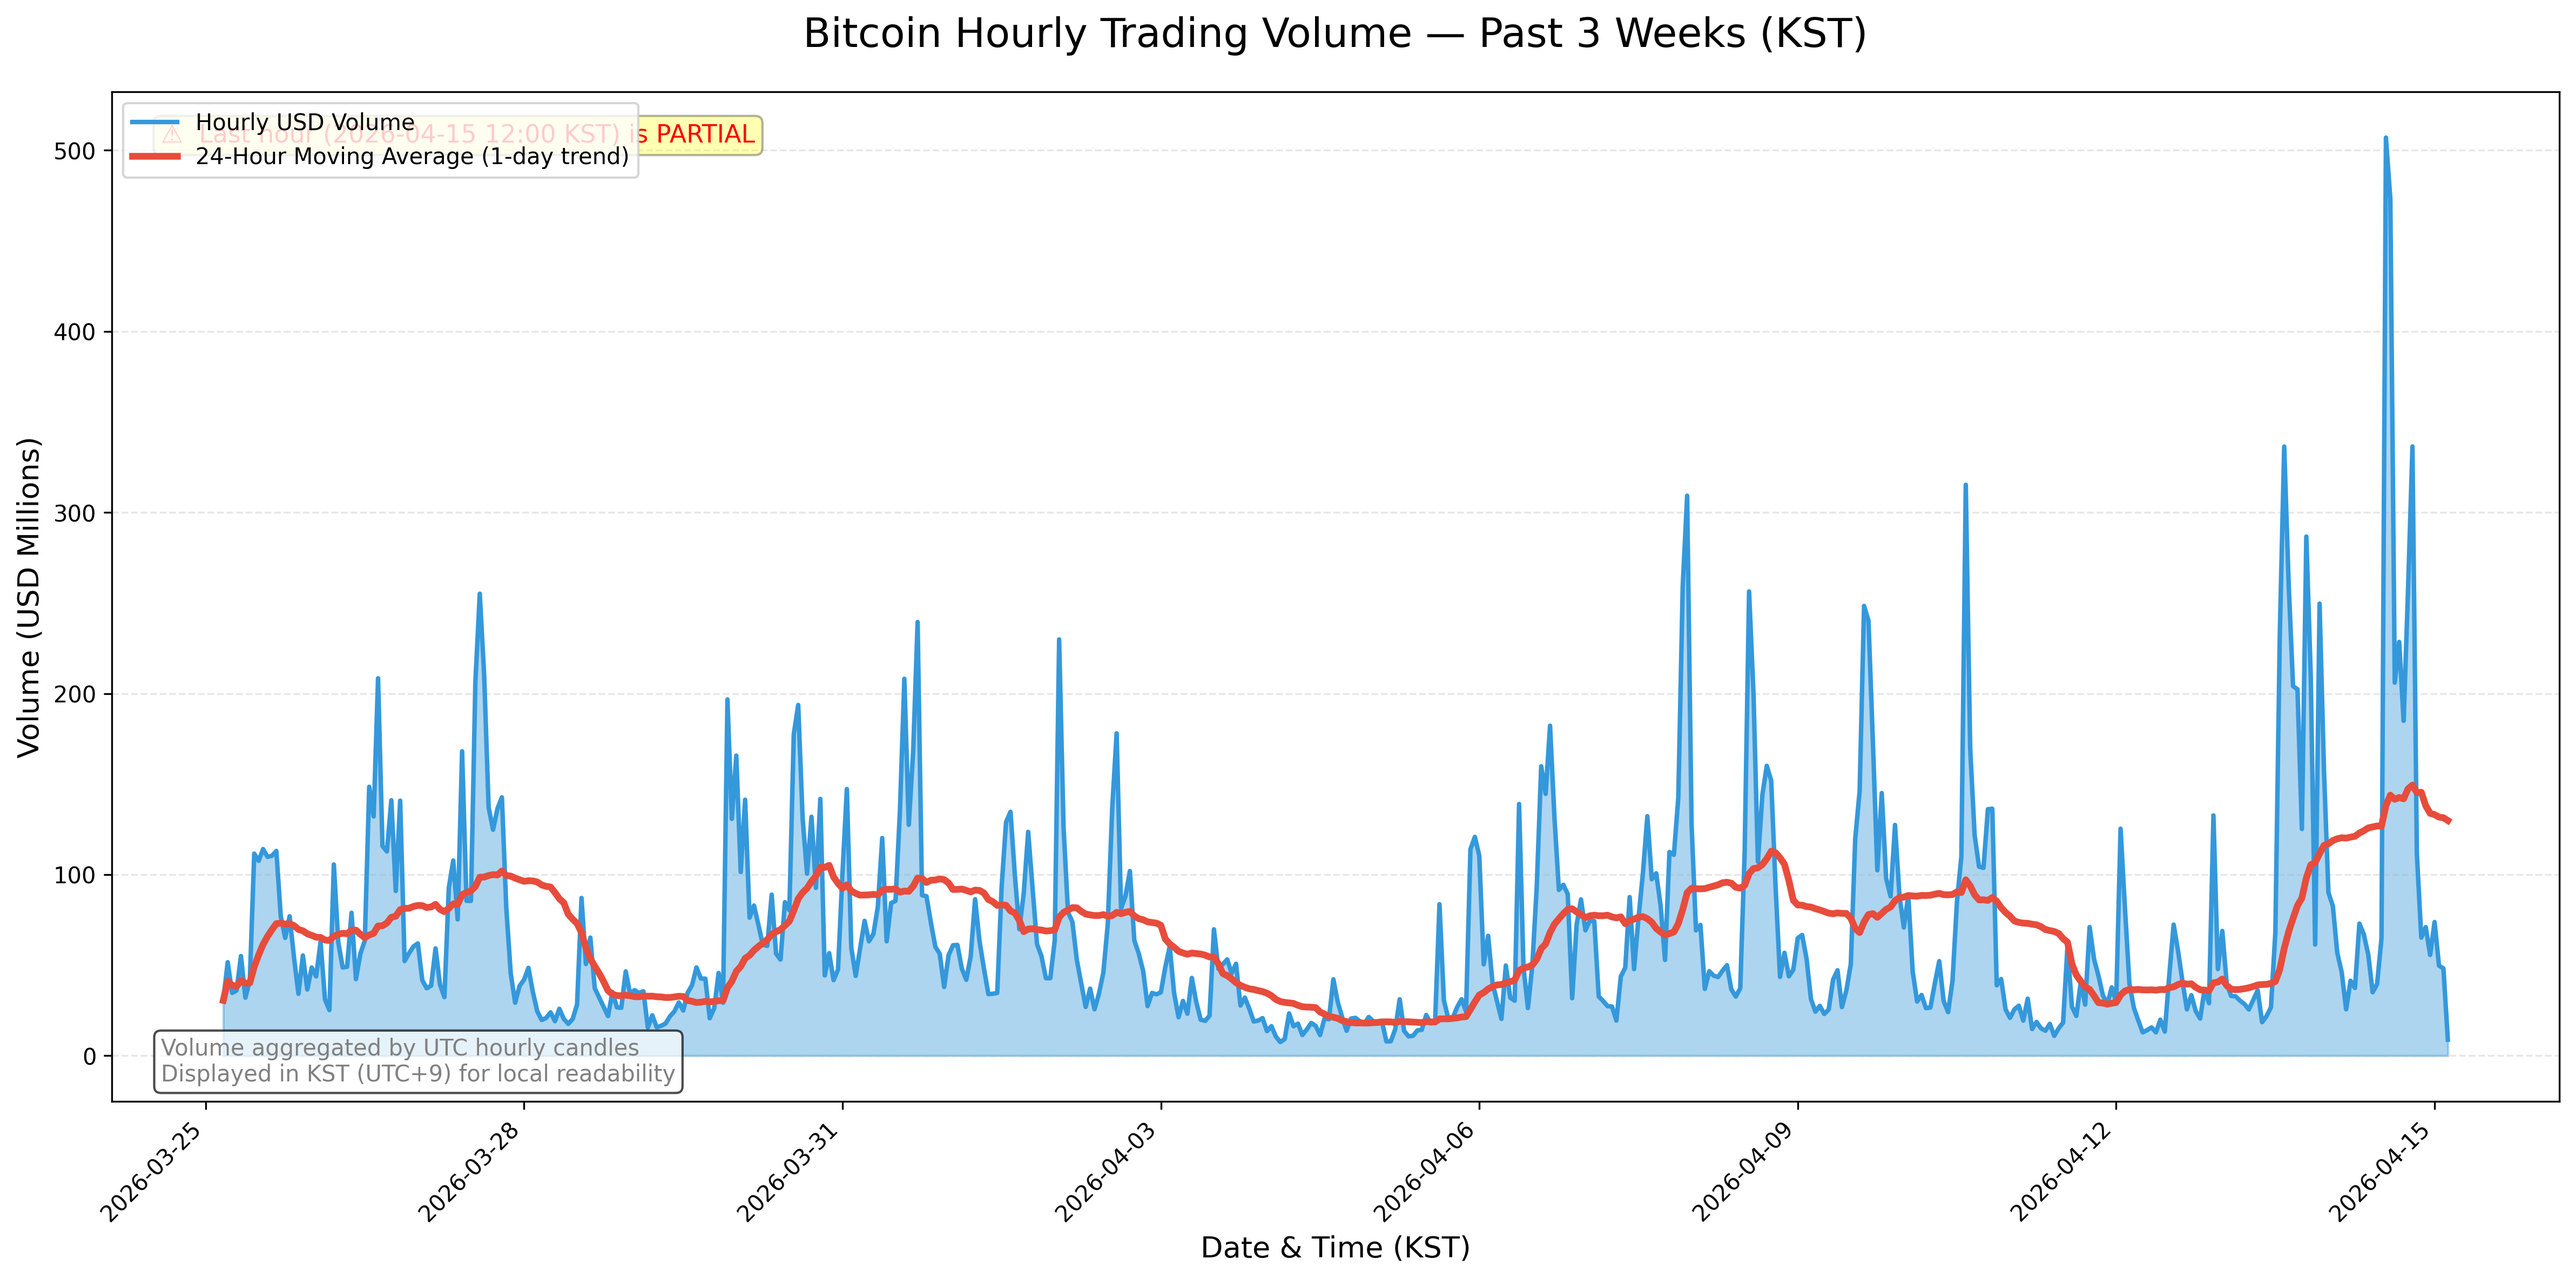
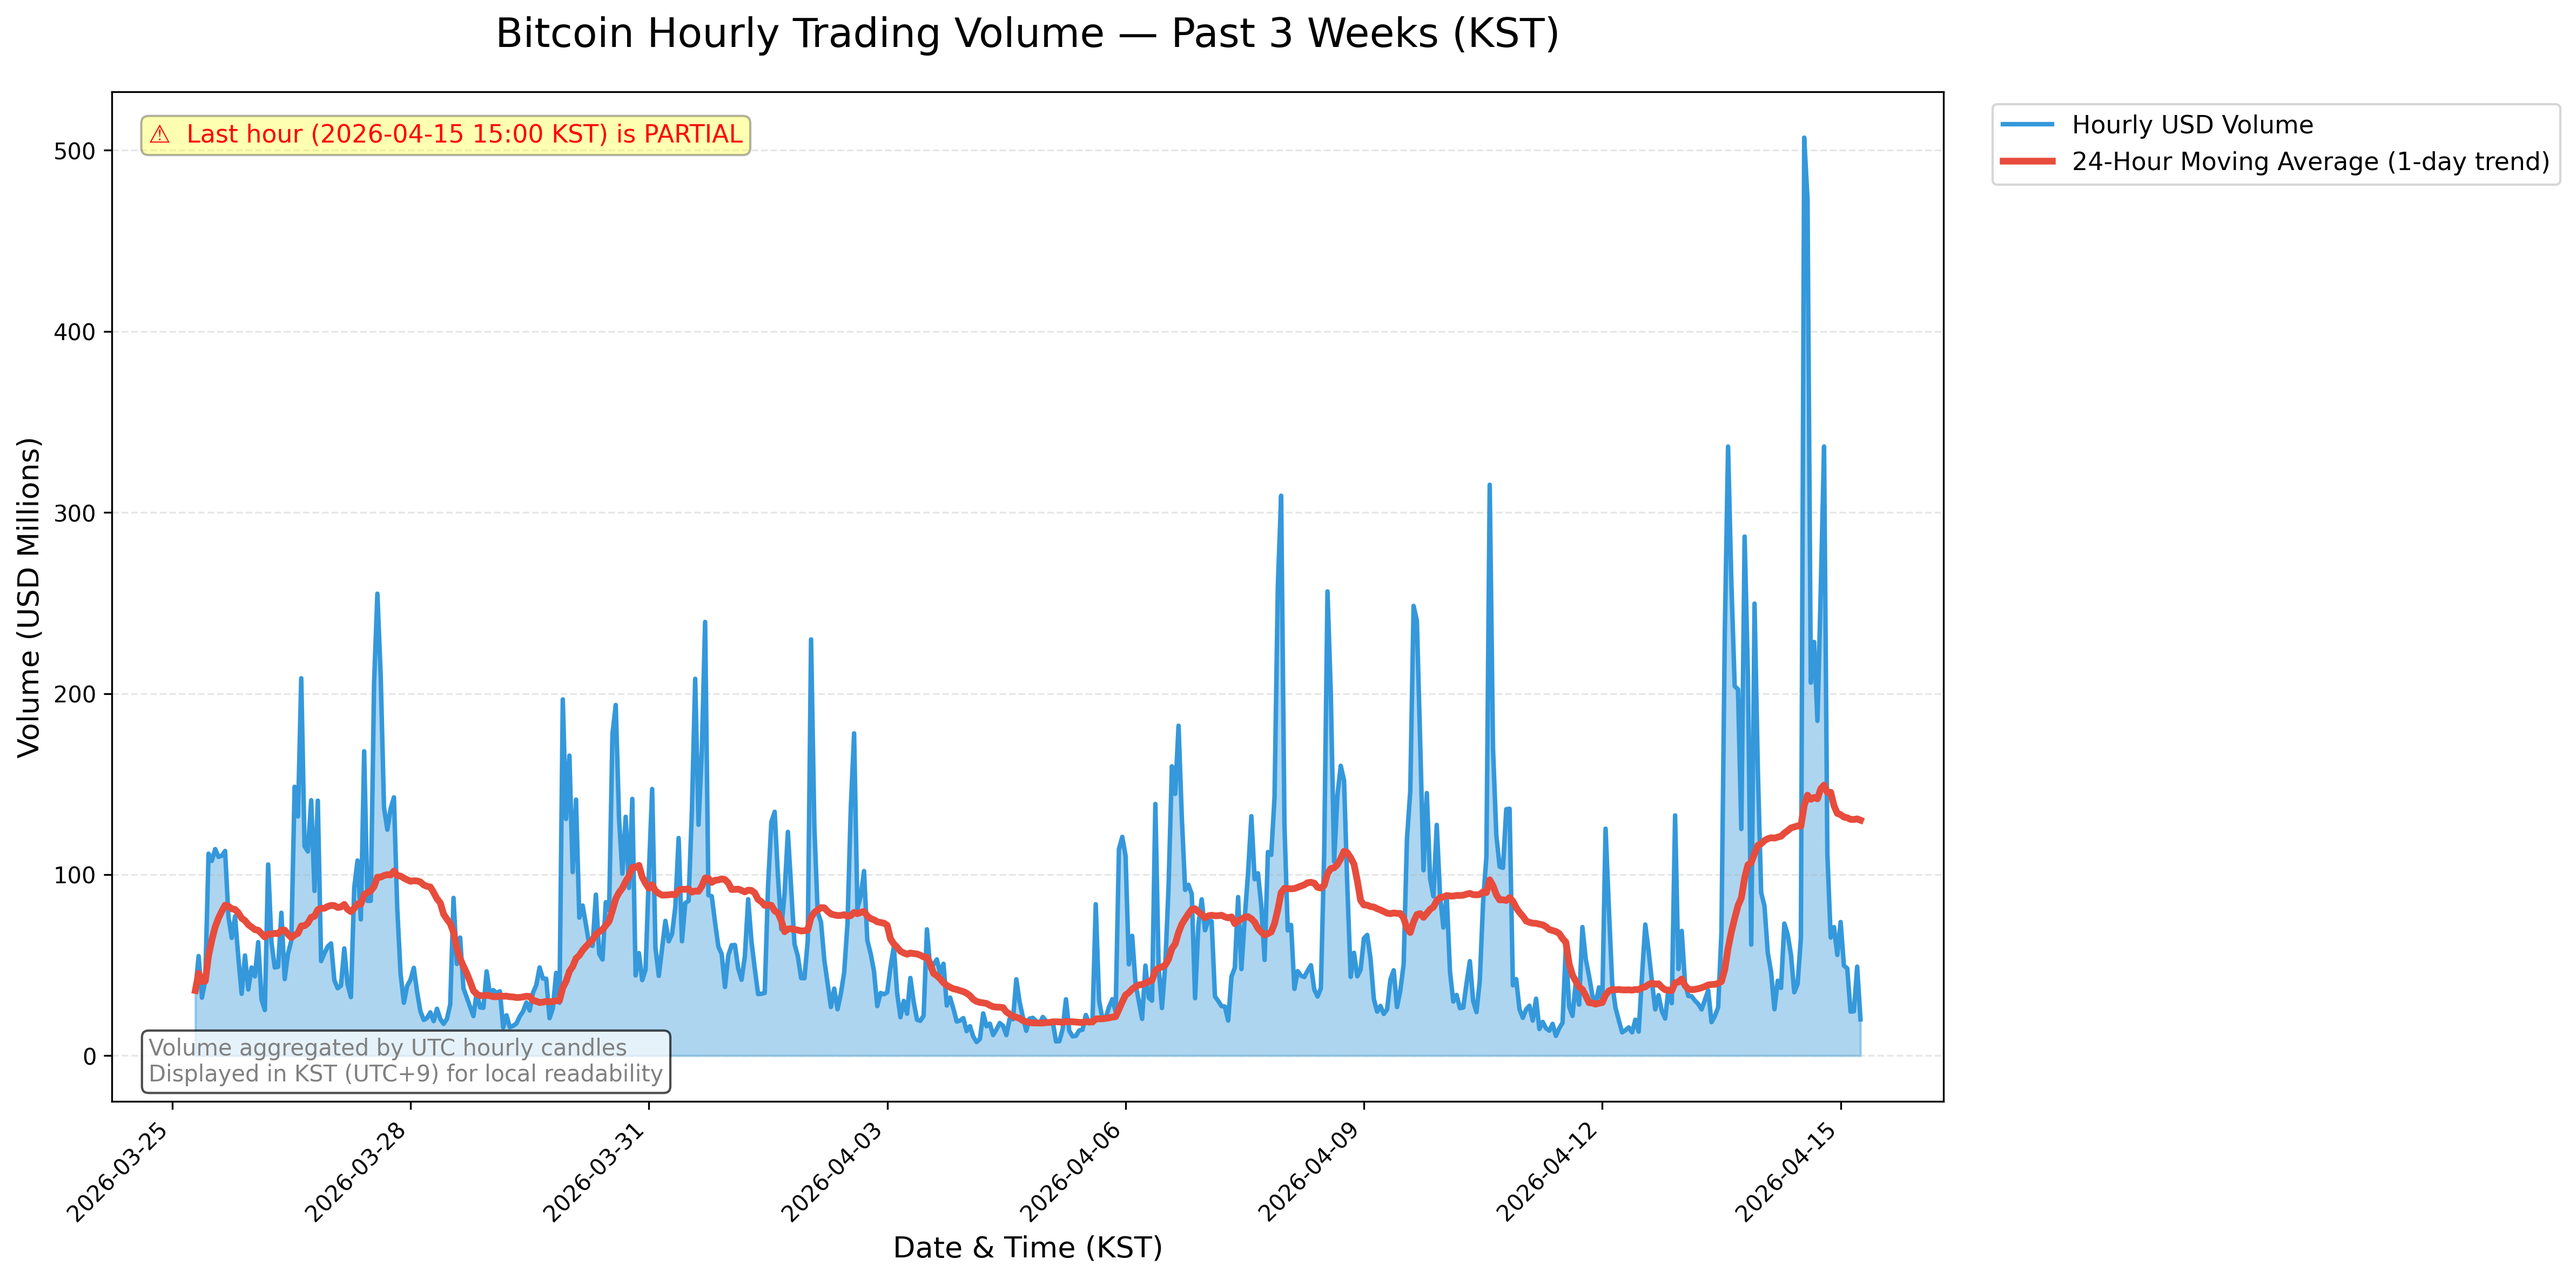
legend move

diff --git a/src/btc_volume.py b/src/btc_volume.py
@@ -75,8 +75,14 @@ def plot_btc_hourly_volume(df, save_path='btc_hourly_volume_3weeks_kst.png'):
     ax.xaxis.set_major_formatter(mdates.DateFormatter('%Y-%m-%d'))
     plt.xticks(rotation=45, ha='right')
     
-    # Legend
-    ax.legend(loc='upper left')
+    # === LEGEND - CLEAN EXTERNAL OPTION (your requested change) ===
+    ax.legend(loc='upper left', 
+              bbox_to_anchor=(1.02, 1.0), 
+              fontsize=11, 
+              frameon=True)
+    
+    # Make room for the external legend on the right
+    fig.subplots_adjust(right=0.82)
     
     # Partial hour warning
     last_time = df['datetime_kst_str'].iloc[-1]
